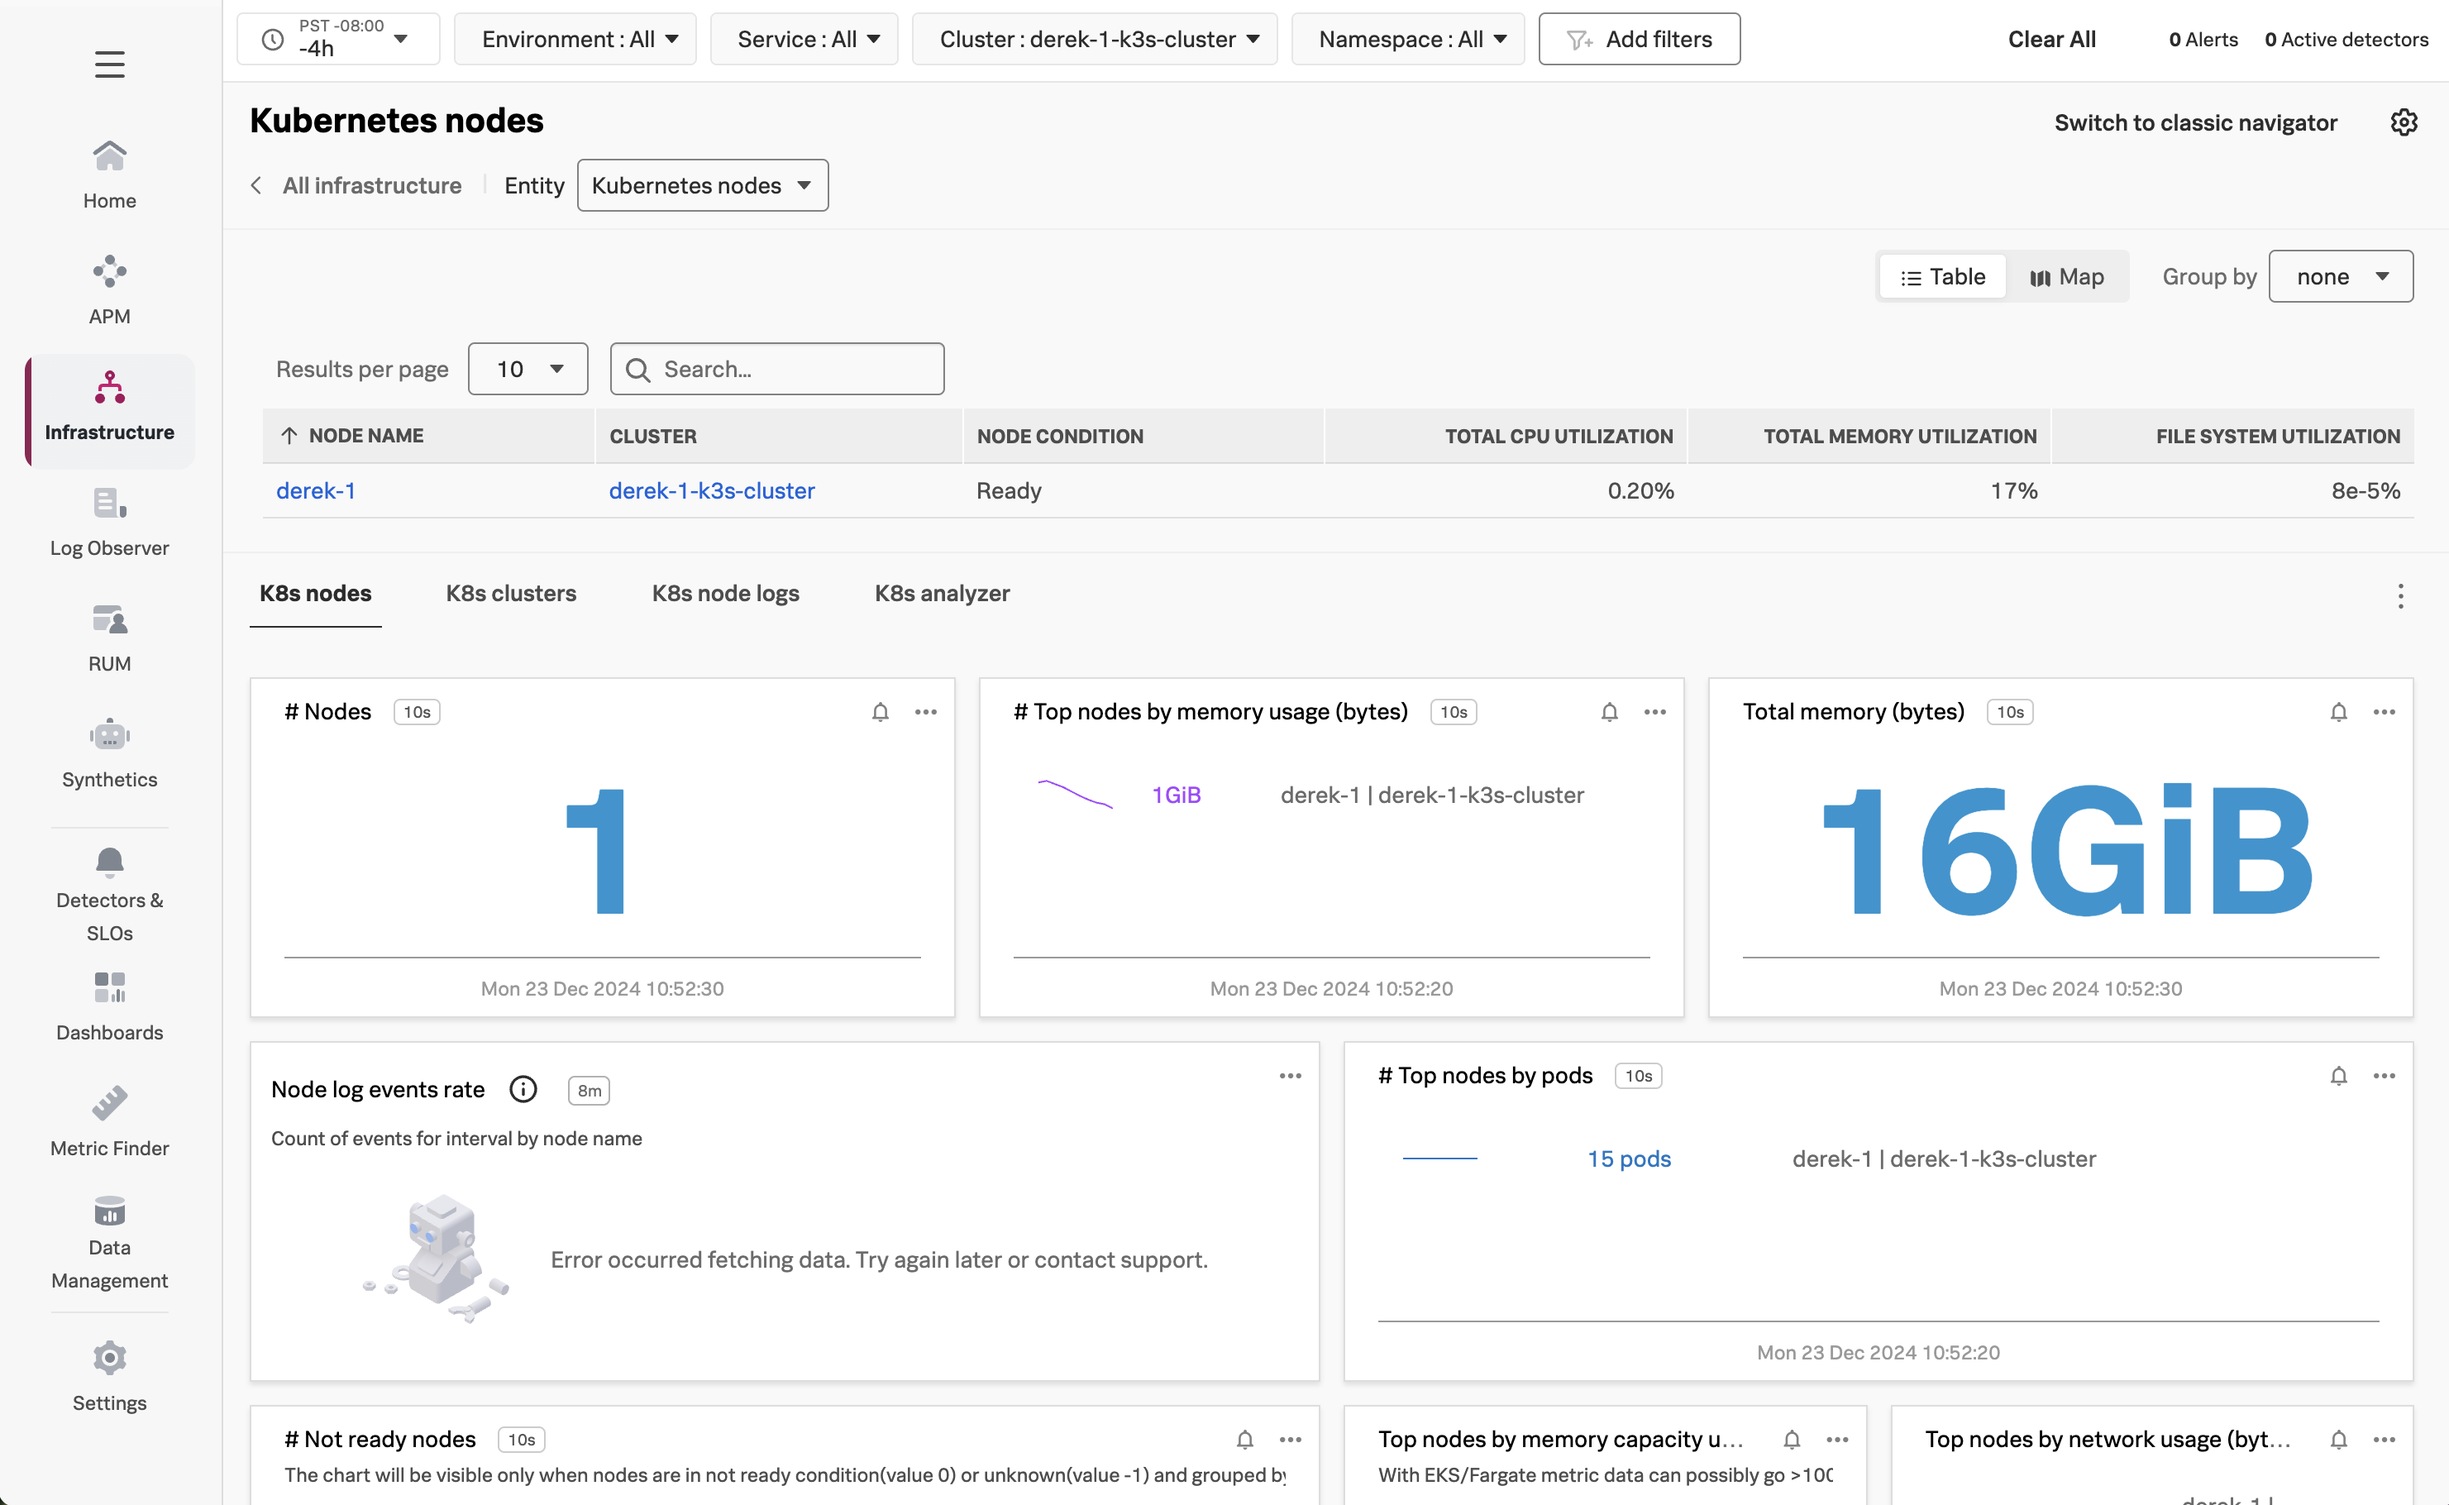
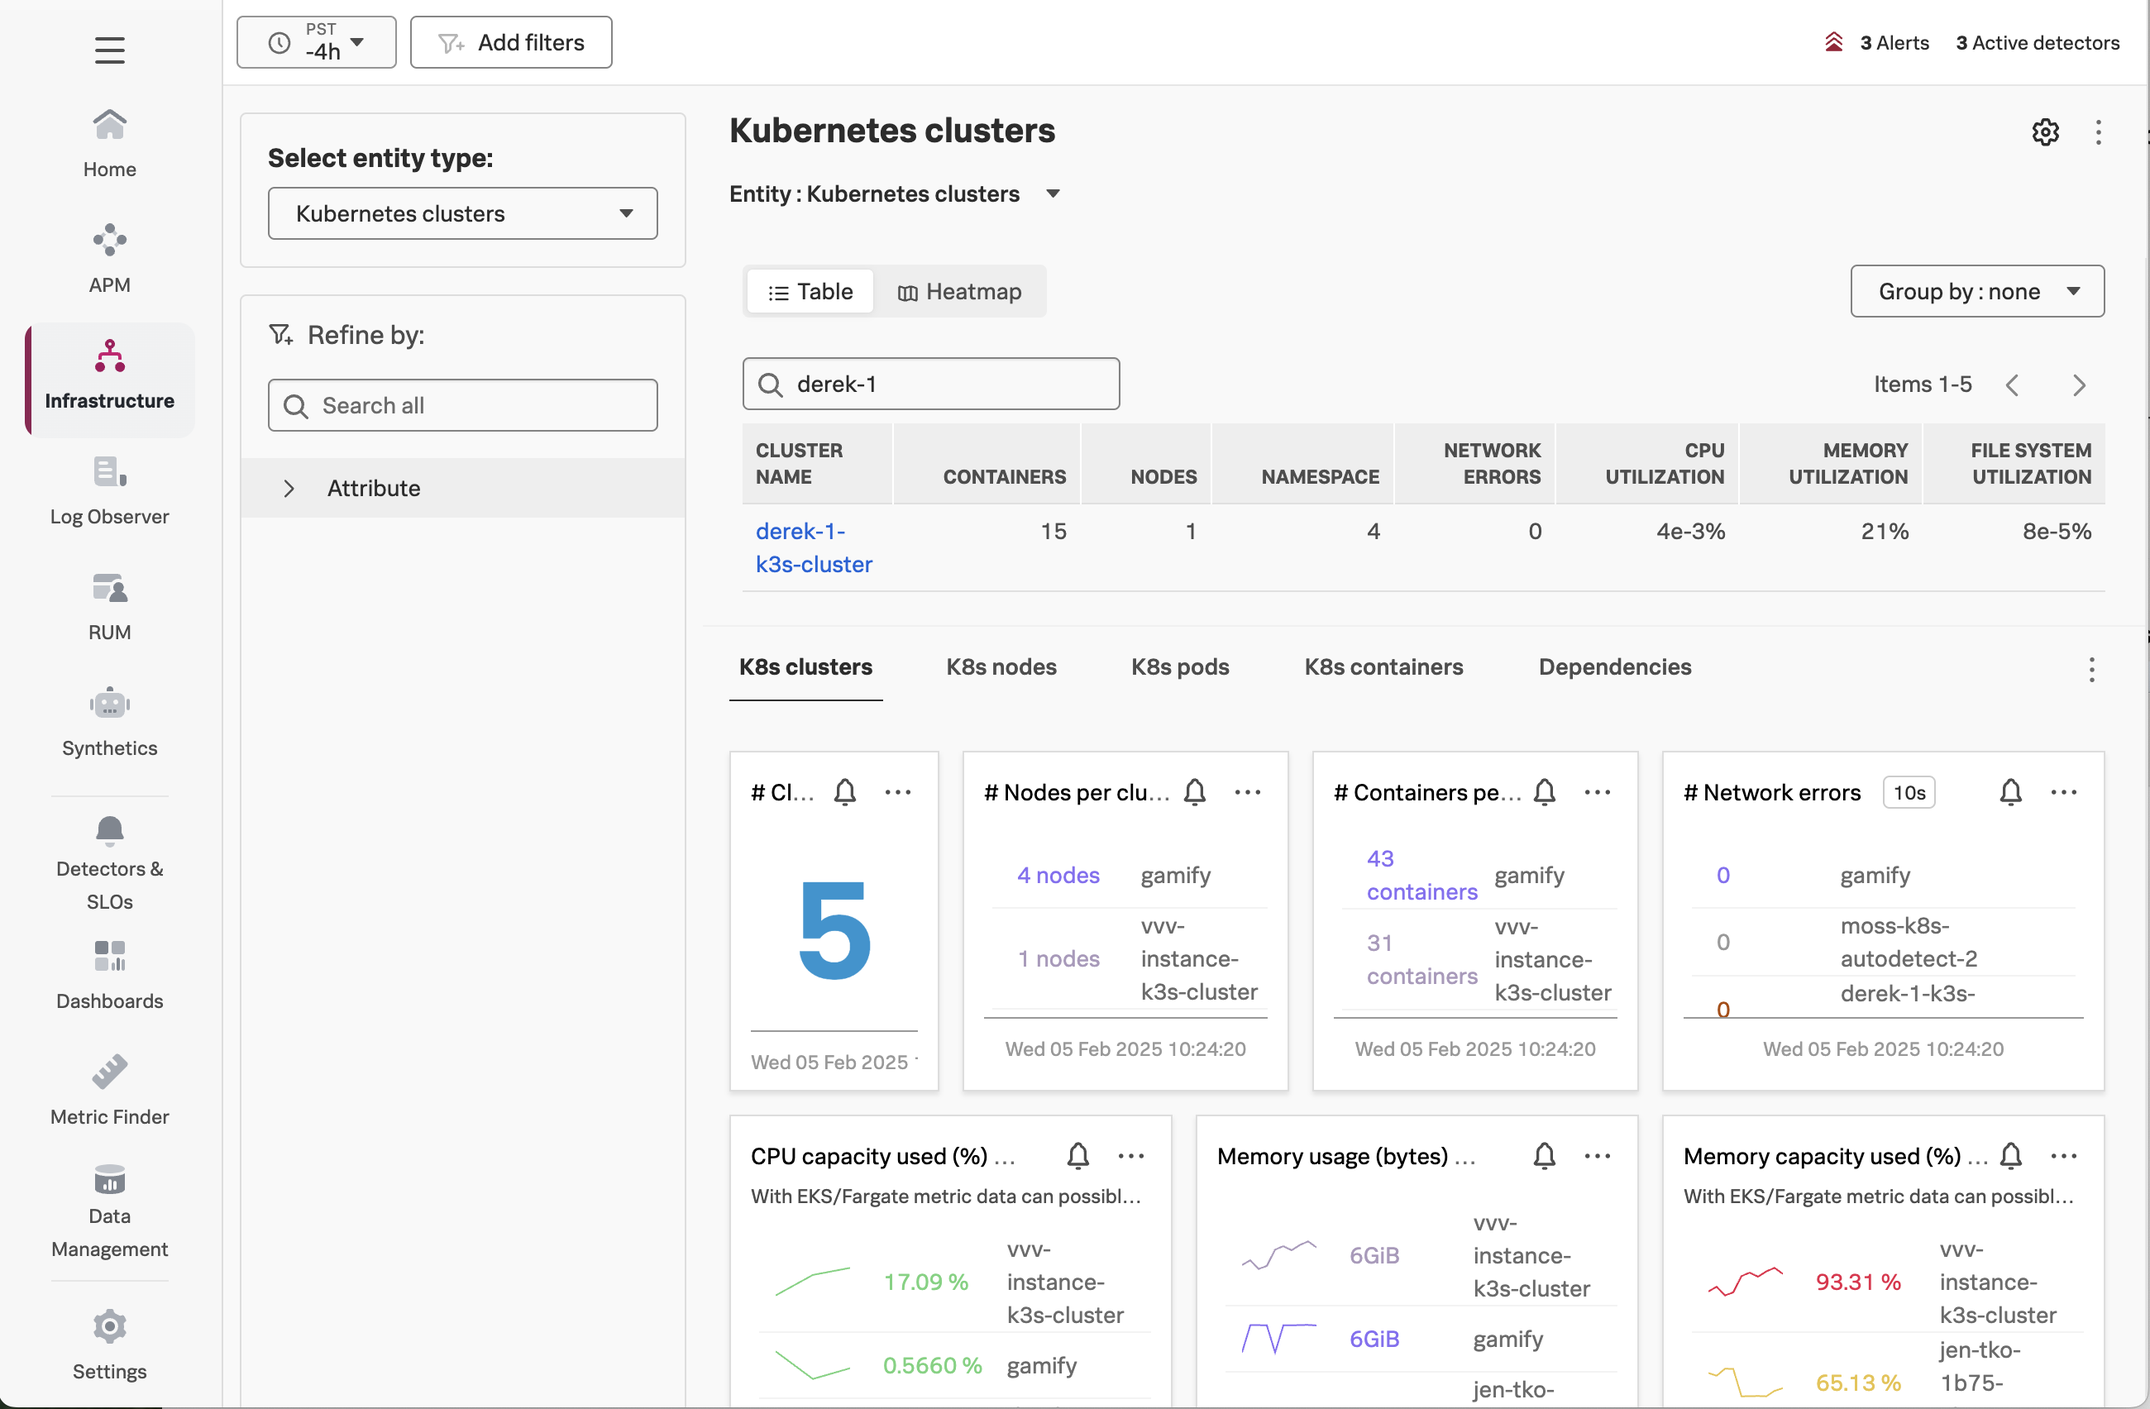
incorporated feedback into the solving-problems-with-o11y-cloud workshop

diff --git a/content/en/ninja-workshops/9-solving-problems-with-o11y-cloud/2-deploy-collector.md b/content/en/ninja-workshops/9-solving-problems-with-o11y-cloud/2-deploy-collector.md
@@ -114,8 +114,8 @@ splunk-otel-collector-operator-6fd9f9d569-wd5mn                 2/2     Running 
 
 ## Confirm your K8s Cluster is in O11y Cloud
 
-In Splunk Observability Cloud, navigate to **Infrastructure** -> **Kubernetes** -> **Kubernetes Nodes**,
-and then Filter on your Cluster Name (which is `$INSTANCE-k3s-cluster`):
+In Splunk Observability Cloud, navigate to **Infrastructure** -> **Kubernetes** -> **Kubernetes Clusters**,
+and then search for your Cluster Name (which is `$INSTANCE-k3s-cluster`):
 
 ![Kubernetes node](../images/k8snode.png)
 
@@ -204,7 +204,16 @@ Let's look at an example.
 
 Suppose we want to see the traces that are sent to the collector.  We can use the debug exporter for this purpose, which can be helpful for troubleshooting OpenTelemetry-related issues.
 
-Let's add the debug exporter to the bottom of the `/home/splunk/workshop/tagging/otel/values.yaml` file as follows:
+You can use vi or nano to edit the `values.yaml` file. We will show an example using vi:
+
+``` bash
+vi /home/splunk/workshop/tagging/otel/values.yaml
+```
+
+Add the debug exporter to the bottom of the `values.yaml` file by copying and pasting the 
+section marked with `Add the section below` in the following example: 
+
+> Press 'i' to enter into insert mode in vi before adding the text below. 
 
 ``` yaml
 splunkObservability:
@@ -248,6 +257,9 @@ agent:
             - signalfx
             - debug
 ```
+
+> To save your changes in vi, press the `esc` key to enter command mode, then type `:wq!` followed by pressing the
+>  `enter/return` key. 
 
 Once the file is saved, we can apply the changes with:
 

diff --git a/content/en/ninja-workshops/9-solving-problems-with-o11y-cloud/5-troubleshoot-using-tag-spotlight.md b/content/en/ninja-workshops/9-solving-problems-with-o11y-cloud/5-troubleshoot-using-tag-spotlight.md
@@ -56,7 +56,7 @@ This illustrates the power of **Tag Spotlight**! Finding this pattern would be t
 
 We've looked at errors, but what about latency? Let's click on the **Requests & errors distribution** dropdown and change it to **Latency distribution**.
 
-Click on the settings icon beside **Cards display** to add the P50 and P99 metrics. 
+> IMPORTANT: Click on the settings icon beside **Cards display** to add the P50 and P99 metrics. 
 
 Here, we can see that the requests with a `poor` credit score request are running slowly, with P50, P90, and P99 times of around 3 seconds, which is too long for our users to wait, and much slower than other requests.
 
